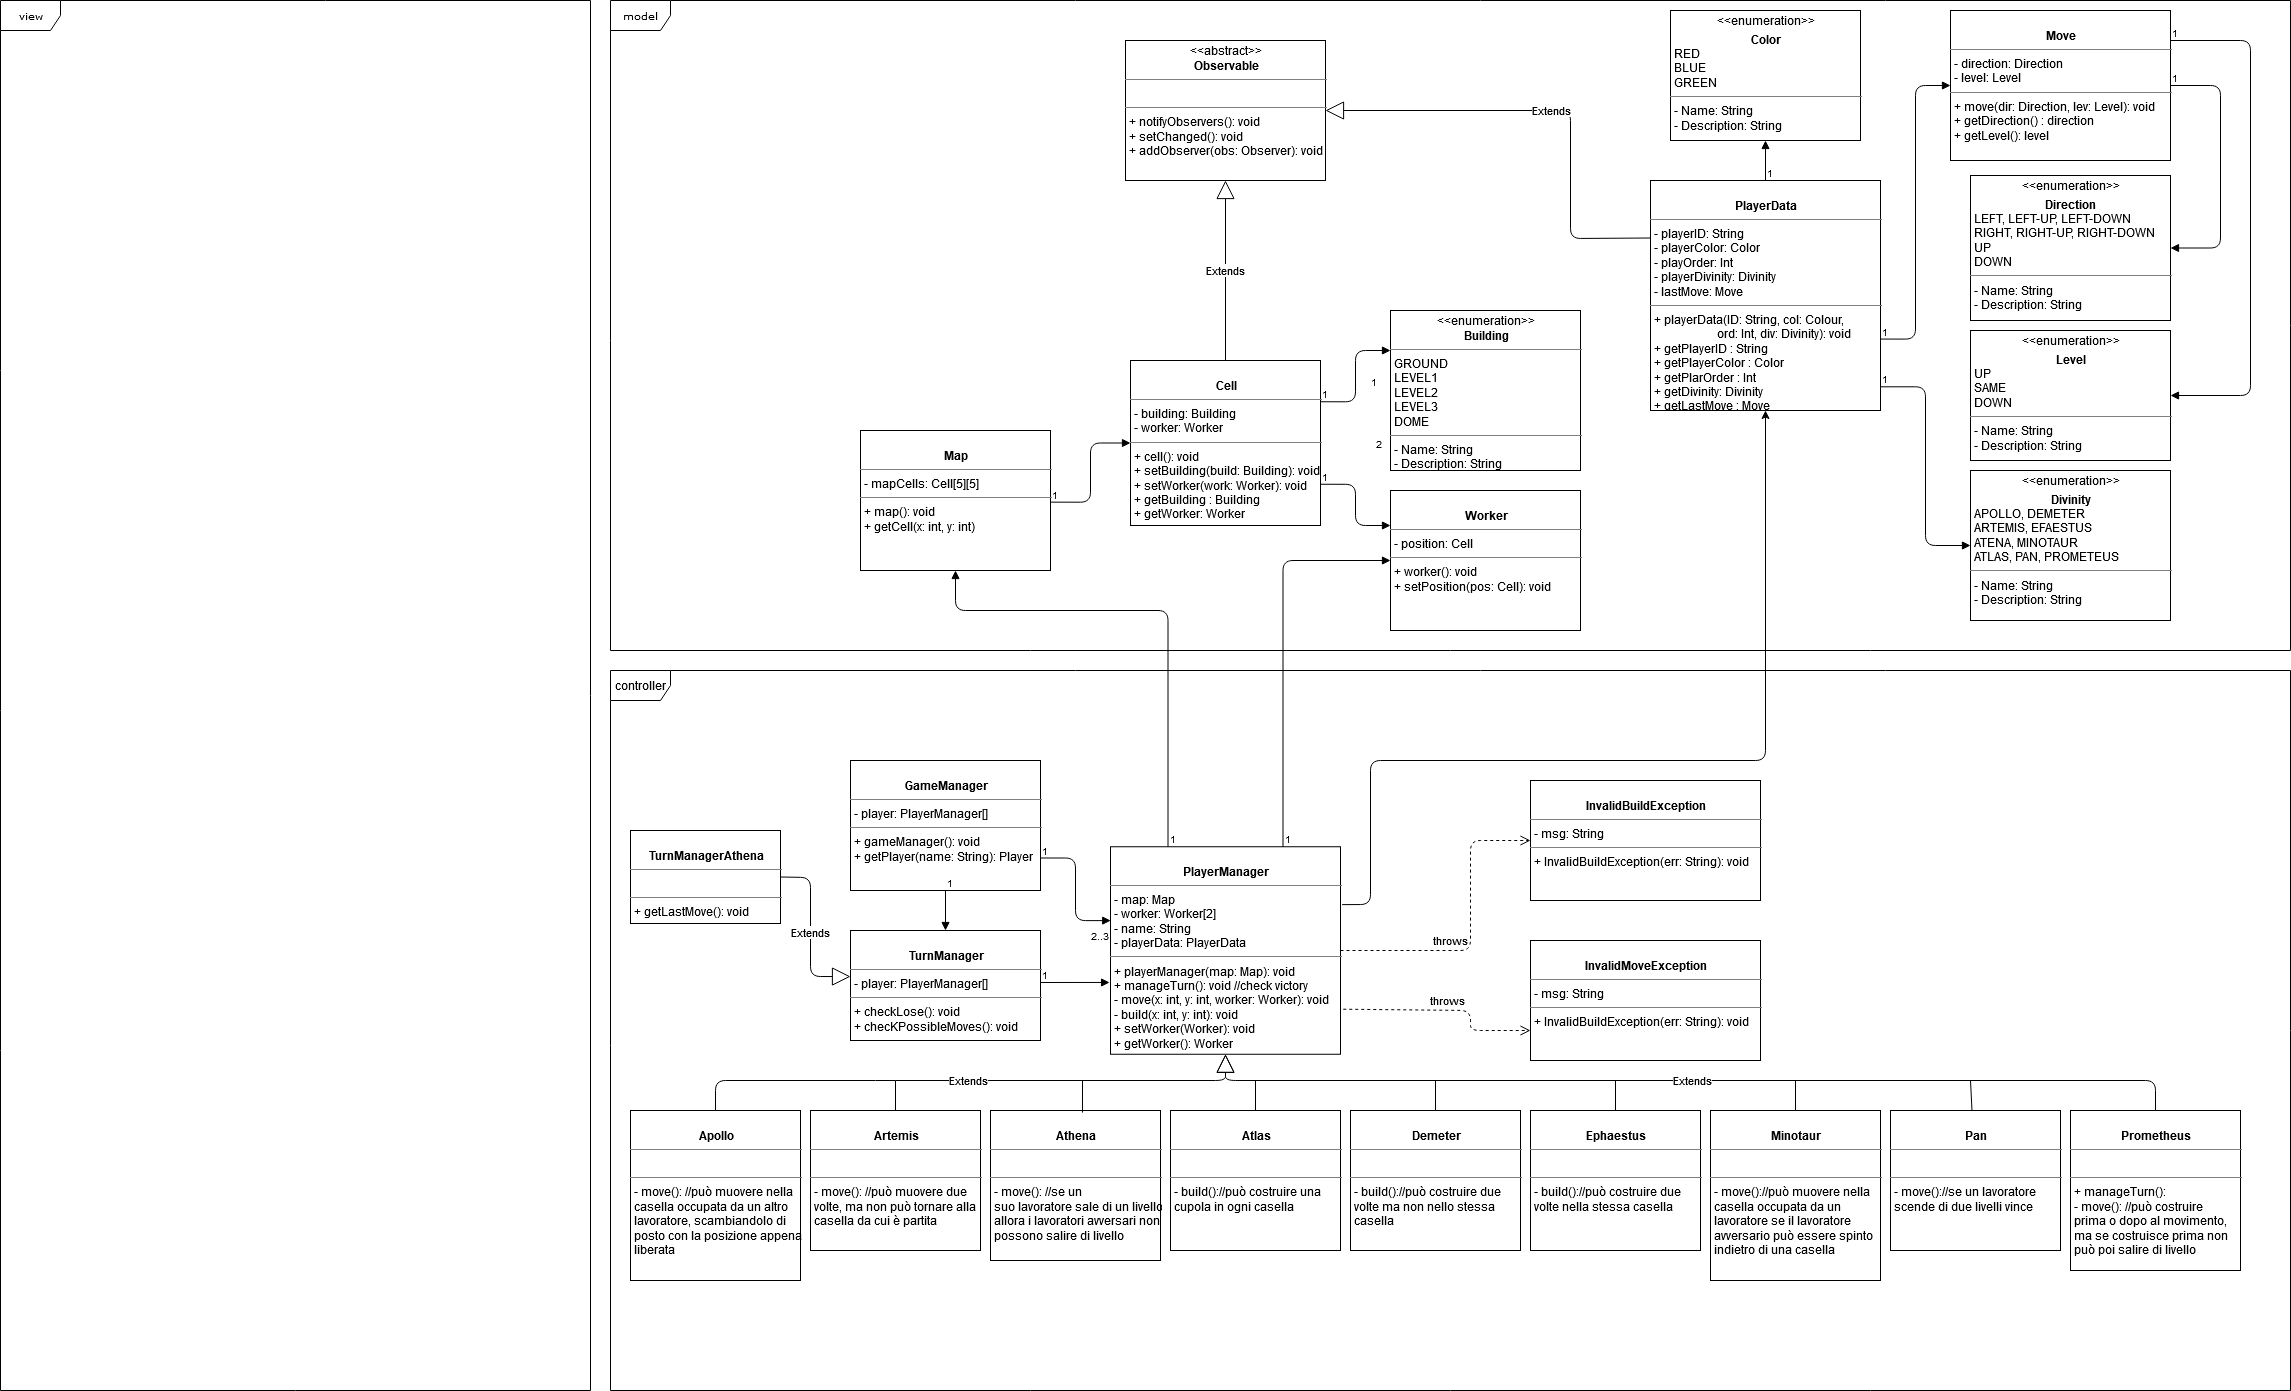
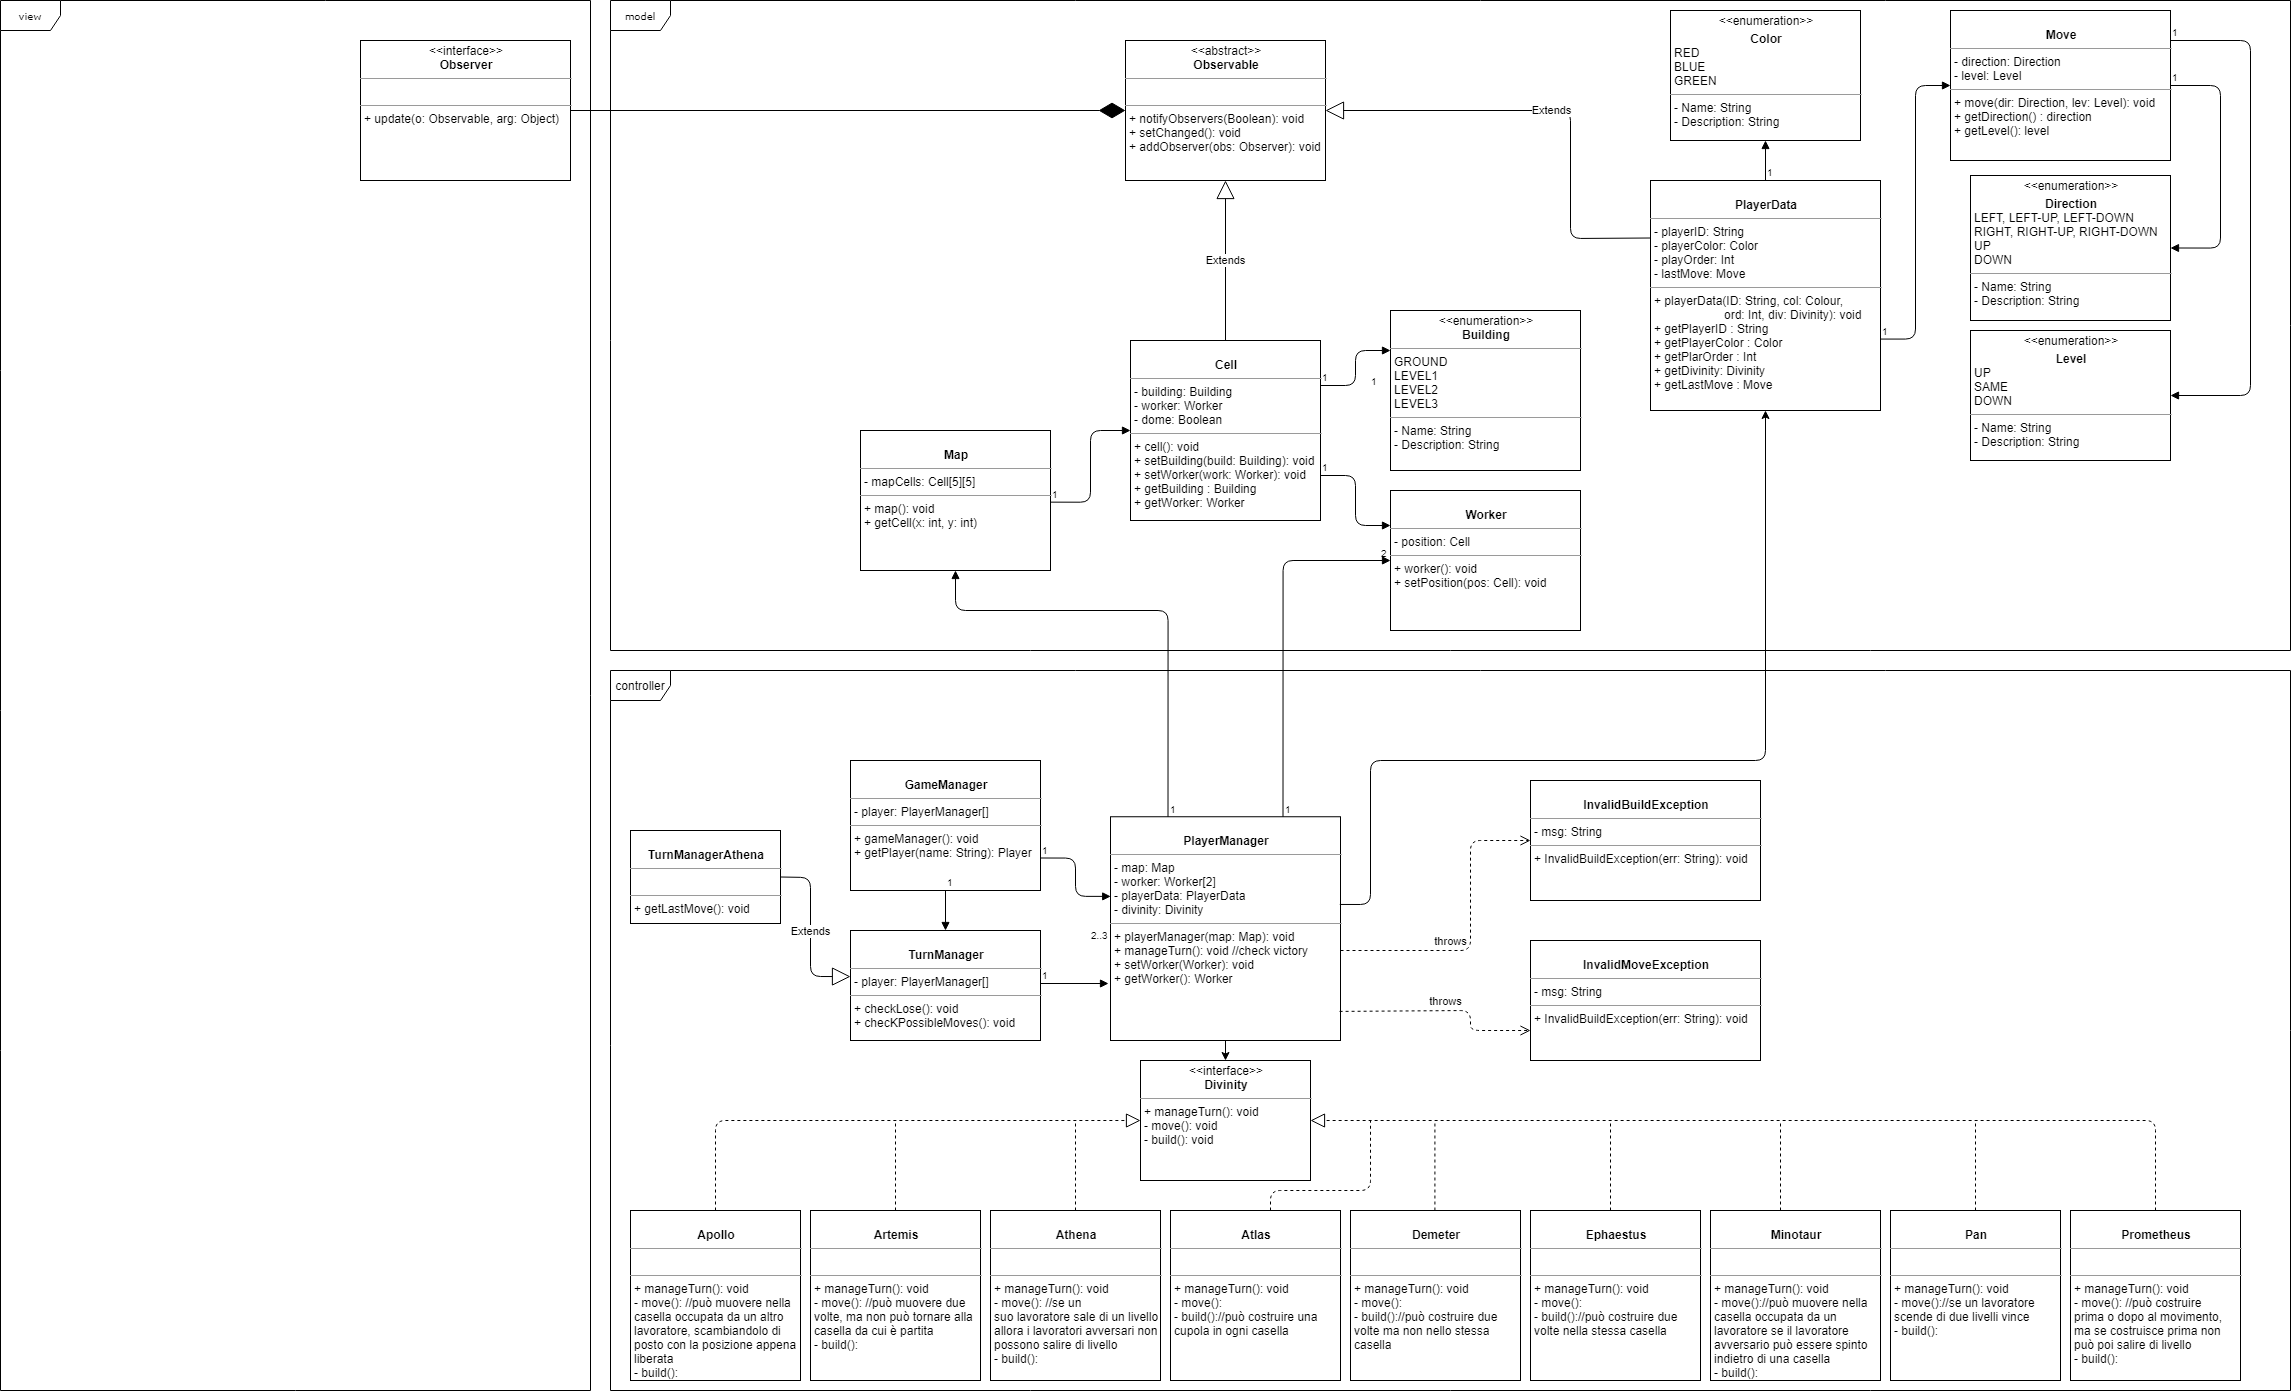
Added controller classes and fixed UML

diff --git a/src/main/java/it/polimi/ingsw/model/PlayerData.java b/src/main/java/it/polimi/ingsw/model/PlayerData.java
@@ -4,14 +4,12 @@ public class PlayerData {
     private String playerID;
     private Color playerColor;
     private Integer playOrder;
-    private Divinity playerDivinity;
     private Move lastMove;
 
-    public PlayerData(String playerID, Color playerColor, Integer playOrder, Divinity playerDivinity) {
+    public PlayerData(String playerID, Color playerColor, Integer playOrder) {
         this.playerID = playerID;
         this.playerColor = playerColor;
         this.playOrder = playOrder;
-        this.playerDivinity = playerDivinity;
     }
 
     public String getPlayerID() {
@@ -24,10 +22,6 @@ public class PlayerData {
 
     public Integer getPlayOrder() {
         return playOrder;
-    }
-
-    public Divinity getPlayerDivinity() {
-        return playerDivinity;
     }
 
     public Move getLastMove() {

diff --git a/src/main/java/it/polimi/ingsw/controller/PlayerManager.java b/src/main/java/it/polimi/ingsw/controller/PlayerManager.java
@@ -1,0 +1,23 @@
+package it.polimi.ingsw.controller;
+
+import it.polimi.ingsw.model.Map;
+import it.polimi.ingsw.model.PlayerData;
+import it.polimi.ingsw.model.Worker;
+
+public class PlayerManager {
+    private Map map;
+    private Worker[] worker = new Worker[2];
+    private PlayerData playerData;
+    private Divinity divinity;
+
+    public PlayerManager() {
+    }
+
+    public Worker[] getWorker() {
+        return worker;
+    }
+
+    public void setWorker(Worker[] worker) {
+        this.worker = worker;
+    }
+}

diff --git a/src/main/java/it/polimi/ingsw/controller/TurnManager.java b/src/main/java/it/polimi/ingsw/controller/TurnManager.java
@@ -1,0 +1,11 @@
+package it.polimi.ingsw.controller;
+
+import java.util.ArrayList;
+
+public class TurnManager {
+    private ArrayList<PlayerManager> player = new ArrayList<PlayerManager>();
+
+    public TurnManager(ArrayList<PlayerManager> player) {
+        this.player = player;
+    }
+}

diff --git a/src/main/java/it/polimi/ingsw/controller/TurnManagerAthena.java b/src/main/java/it/polimi/ingsw/controller/TurnManagerAthena.java
@@ -1,0 +1,13 @@
+package it.polimi.ingsw.controller;
+
+import java.util.ArrayList;
+
+public class TurnManagerAthena extends TurnManager {
+
+    public TurnManagerAthena(ArrayList<PlayerManager> player) {
+        super(player);
+    }
+
+    public void getLastMove() {
+    }
+}

diff --git a/src/main/java/it/polimi/ingsw/controller/Apollo.java b/src/main/java/it/polimi/ingsw/controller/Apollo.java
@@ -1,0 +1,14 @@
+package it.polimi.ingsw.controller;
+
+public class Apollo implements Divinity{
+    private String name;
+
+    public void manageTurn() {
+    }
+
+    private void move() {
+    }
+
+    private void build() {
+    }
+}

diff --git a/src/main/java/it/polimi/ingsw/controller/GameManager.java b/src/main/java/it/polimi/ingsw/controller/GameManager.java
@@ -1,0 +1,10 @@
+package it.polimi.ingsw.controller;
+
+import java.util.ArrayList;
+
+public class GameManager {
+    private ArrayList<PlayerManager> player = new ArrayList<PlayerManager>();
+
+    public GameManager() {
+    }
+}

diff --git a/src/main/java/it/polimi/ingsw/controller/Divinity.java b/src/main/java/it/polimi/ingsw/controller/Divinity.java
@@ -1,0 +1,5 @@
+package it.polimi.ingsw.controller;
+
+public interface Divinity {
+    void manageTurn();
+}
